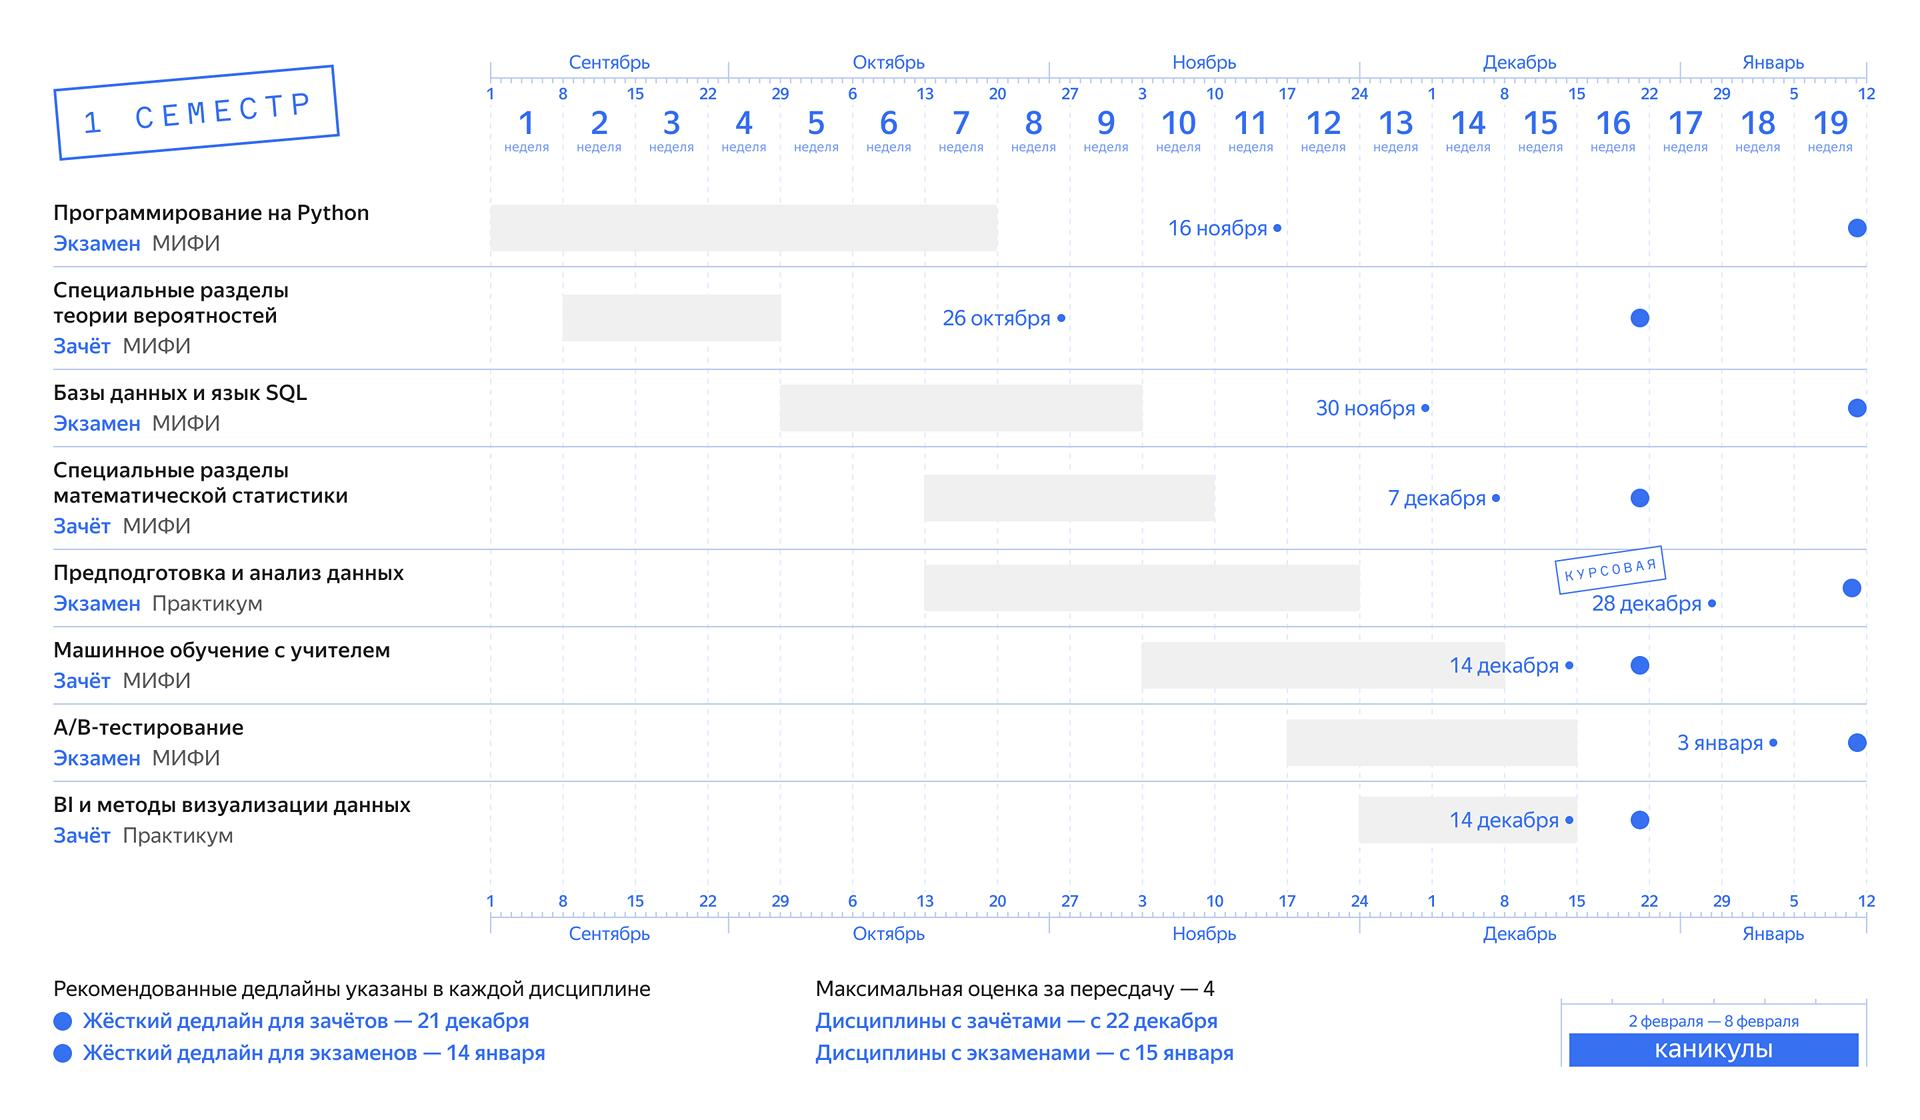
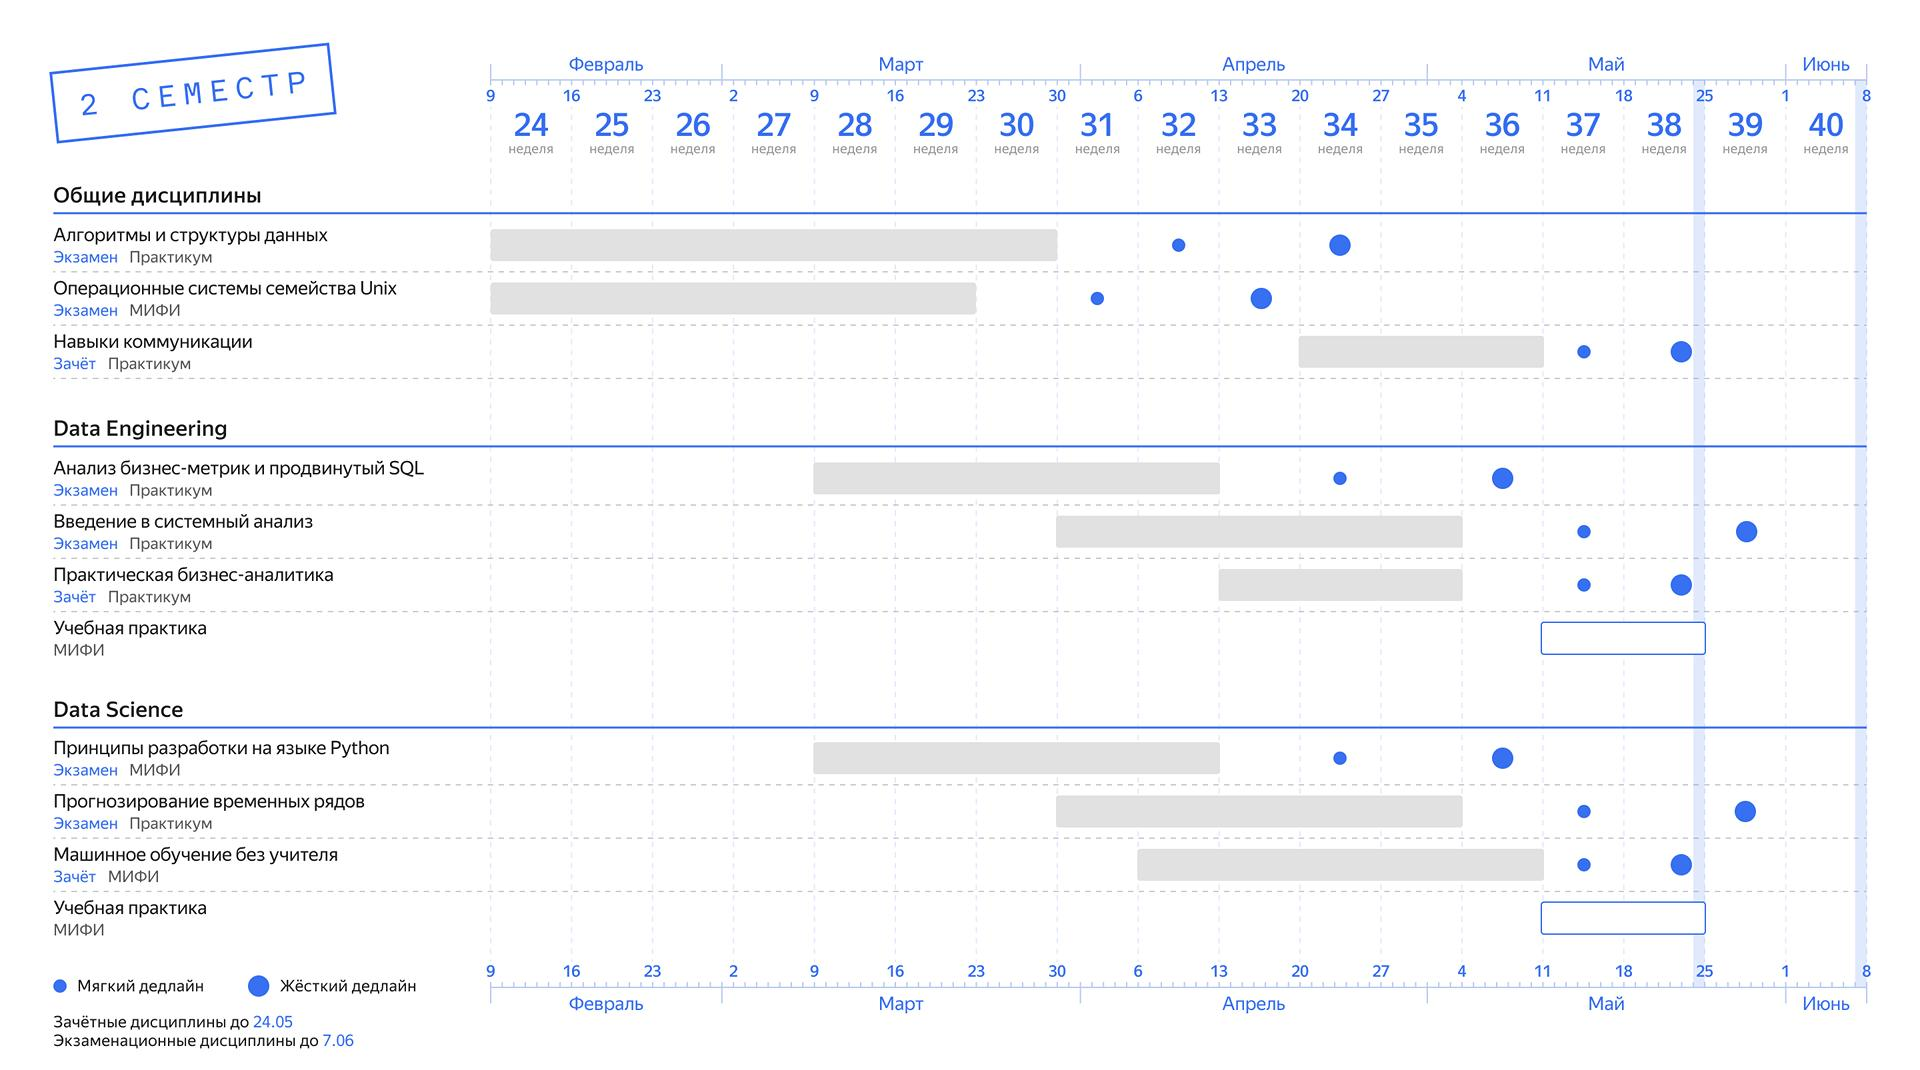
Правки

diff --git a/_includes/sidebar.html b/_includes/sidebar.html
@@ -124,6 +124,14 @@
       </a>
     </div>
 
+    
+<div class="sidebar-submenu">
+    </a>
+    <a href="{{ site.baseurl }}/lectures/" class="sidebar-nav-item submenu-item">
+      2 Семестр
+    </a>
+  </div>
+
 </div>
 
 
